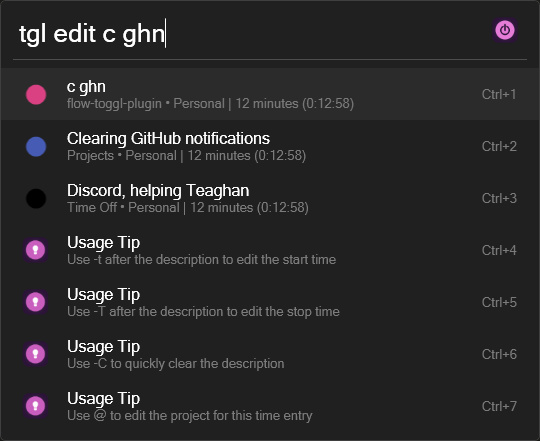
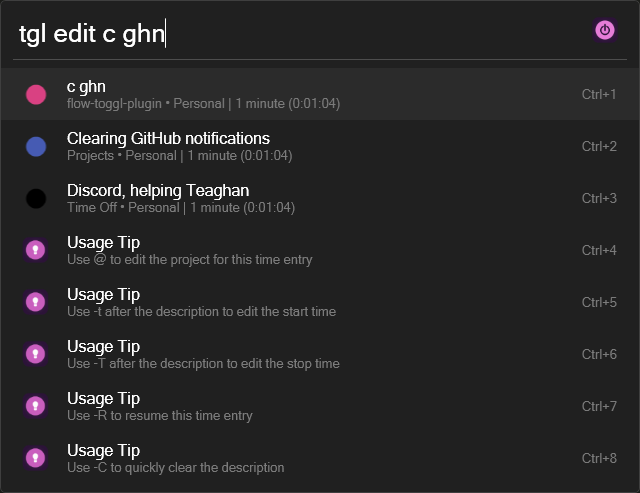
docs(readme): :memo: document `-R` for `edit` (#107)

diff --git a/README.md b/README.md
@@ -285,6 +285,7 @@ When followed by anything other than a command name, the list of results will co
 - `tgl edit [previous time entry description]` > `tgl edit -C` > `tgl edit New time entry description`
 - `tgl edit [previous time entry description]` > `tgl edit -t 20s -T 1h`
 - `tgl edit [previous time entry description]` > `tgl edit [previous time entry description]@no-project`
+- `tgl edit [previous time entry description]` > `tgl edit [previous time entry description] -R`
 
 ### Symbols and Flags
 | Name                     | Symbol | Description                                 | Example        |
@@ -295,16 +296,18 @@ When followed by anything other than a command name, the list of results will co
 | ----------------- | ---- | ------------------------------------------------------------------------------ | ---------------- |
 | Time Span         | `-t` | Offset the starting time of the selected time entry with a specified time span | `-t -30 seconds` |
 | End Time Span     | `-T` | Offset the stopping time of the selected time entry with a specified time span | `-T -30 seconds` |
+| Resume Time Entry | `-R` | Unstop the time entry (ie resume it, ie restart it from the same start time)   | `-R`             |
 | Clear Description | `-C` | Empty the time entry description from the Flow search bar                      | `-C`             |
 
 ### Notes and Warnings
 > **Note**  
 > 1. If an `End Time Span` is specified, the time entry will be stopped (if it is currently running).
-> 2. The `Clear Description` flag will only empty the time entry description from the Flow search bar, so a replacement can be input quickly.
+> 2. The `End Time Span` and `Resume Time Entry` flags are mutually exclusive (cannot be used together).
+> 3. The `Clear Description` flag will only empty the time entry description from the Flow search bar, so a replacement can be input quickly.
 >    > **Note**  
 >    > To actually clear a time entry's description, use the `Clear Description` flag then hit the `Enter` action key to save.
-> 3. `tgl edit` will use the entered description to perform a fuzzy match against all previously tracked time entries (within the past 12 months), allowing you to quickly apply a previous time entry's description/project/etc.
-> 4. To include a command symbol/flag in your time entry description, you can escape it with a backslash (`\`), eg `tgl edit Email james\@jamesnzl.xyz \-t \-T \-C`
+> 4. `tgl edit` will use the entered description to perform a fuzzy match against all previously tracked time entries (within the past 12 months), allowing you to quickly apply a previous time entry's description/project/etc.
+> 5. To include a command symbol/flag in your time entry description, you can escape it with a backslash (`\`), eg `tgl edit Email james\@jamesnzl.xyz \-t \-T \-C`
 
 > **Warning**  
 > 1. The `Time Span`/`End Time Span` flags must be the entered after the time entry description. Anything entered after the flag(s) will be ignored.
